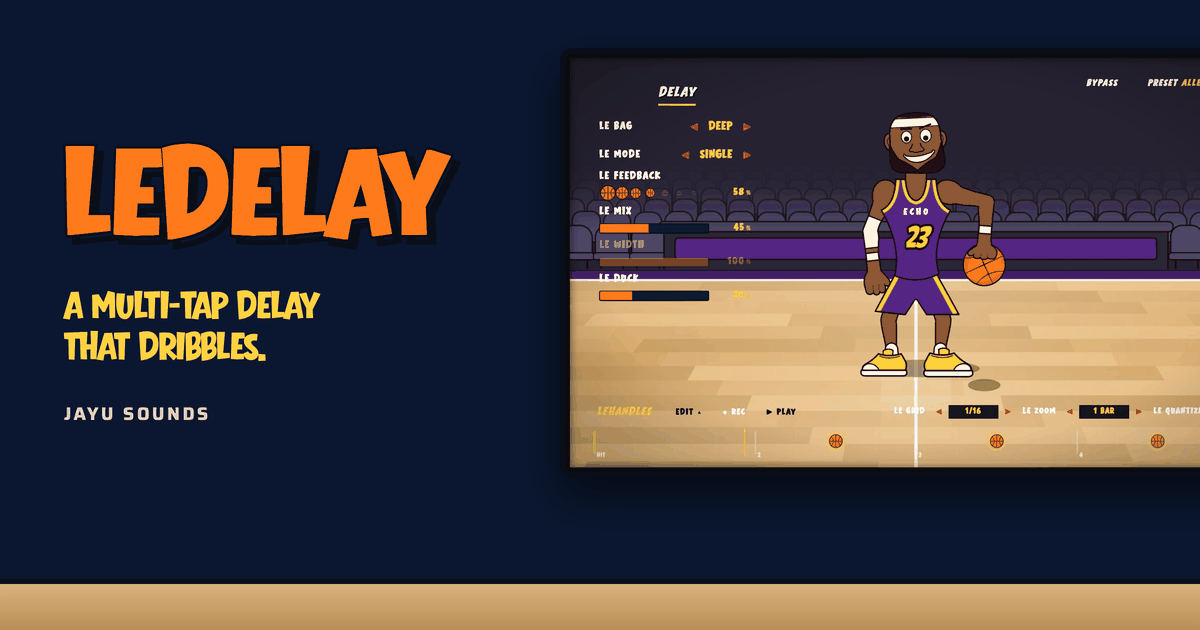
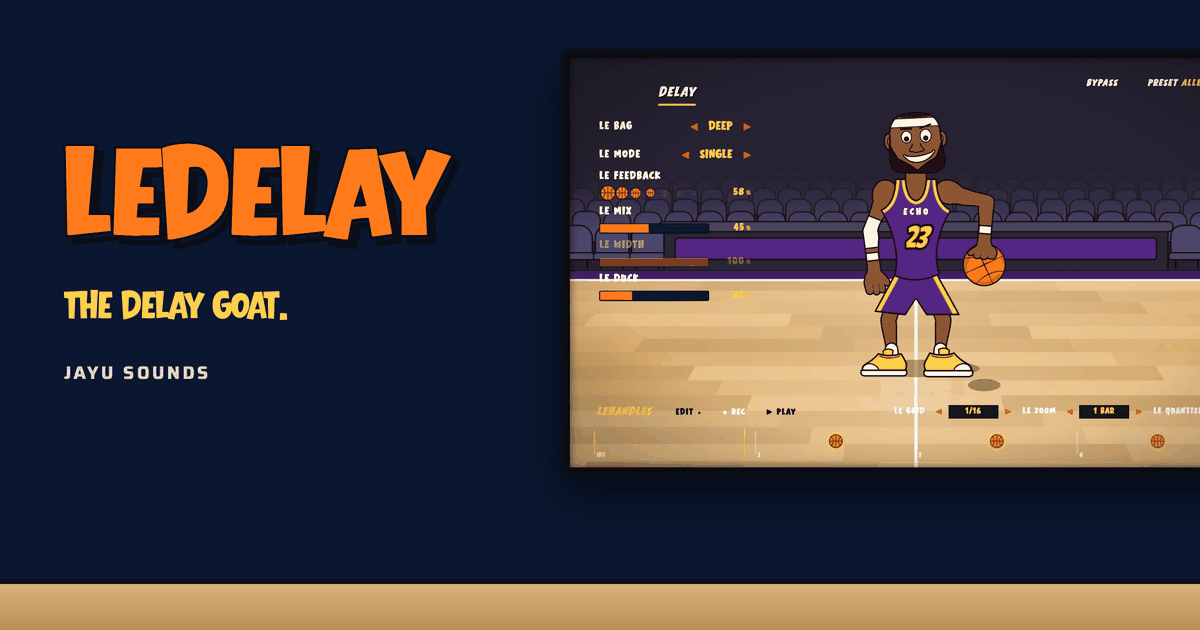
LeDELAY: the tagline is 'the delay GOAT', new one-line pitch

Changed region(s): [[0.0308, 0.4524, 0.2775, 0.6032], [0.0617, 0.6333, 0.185, 0.6635]]

diff --git a/ledelay/index.html b/ledelay/index.html
@@ -3,12 +3,12 @@
 <head>
 <meta charset="utf-8">
 <meta name="viewport" content="width=device-width, initial-scale=1">
-<title>LeDELAY — a multi-tap delay that dribbles</title>
-<meta name="description" content="LeDELAY is a multi-tap delay for macOS and Windows. Build the echo pattern on a basketball court, or dribble it in yourself. Three eras, seven effects on every repeat. VST3, AU, CLAP and standalone.">
+<title>LeDELAY — the delay GOAT</title>
+<meta name="description" content="LeDELAY: a multi-tap delay plugin as intuitive as dribbling a basketball. Turn your echo pattern into a fully customizable dribble pattern. macOS and Windows, VST3, AU, CLAP and standalone.">
 
 <link rel="canonical" href="https://jayusounds.com/ledelay/">
-<meta property="og:title" content="LeDELAY — a multi-tap delay that dribbles">
-<meta property="og:description" content="Build the echo pattern on a basketball court, or dribble it in yourself. Three eras, seven effects on every repeat.">
+<meta property="og:title" content="LeDELAY — the delay GOAT">
+<meta property="og:description" content="A multi-tap delay plugin as intuitive as dribbling a basketball. Turn your echo pattern into a fully customizable dribble pattern.">
 <meta property="og:type" content="product">
 <meta property="og:url" content="https://jayusounds.com/ledelay/">
 <!-- Absolute, because link unfurlers do not resolve a relative one. VERSIONED
@@ -268,11 +268,10 @@ fbq('track', 'PageView');
     <section class="hero" id="buy">
       <div>
         <h1>LeDELAY</h1>
-        <p class="tag">A multi-tap delay that dribbles.</p>
+        <p class="tag">The delay GOAT.</p>
         <p>
-          Your echoes, on a basketball court. Every repeat is a bounce, and the
-          Echo King dribbles them in time. Lay the pattern out on the bar, or
-          grab the ball and dribble it in yourself.
+          A multi-tap delay plugin as intuitive as dribbling a basketball.
+          Turn your echo pattern into a fully customizable dribble pattern.
         </p>
         <div class="cta-row">
           <!-- TODO when LeDELAY goes on sale: swap this for the Lemon Squeezy

diff --git a/index.html b/index.html
@@ -4,7 +4,7 @@
 <meta charset="utf-8">
 <meta name="viewport" content="width=device-width, initial-scale=1">
 <title>Jayu Sounds</title>
-<meta name="description" content="Audio plugins by Jayu Sounds: Shizen, a generative sampler, and LeDELAY, a multi-tap delay that dribbles. Pick a channel.">
+<meta name="description" content="Audio plugins by Jayu Sounds: Shizen, a generative sampler, and LeDELAY, the delay GOAT. Pick a channel.">
 
 <link rel="canonical" href="https://jayusounds.com/">
 <meta property="og:type" content="website">

diff --git a/tools/og-card-ledelay.html b/tools/og-card-ledelay.html
@@ -22,7 +22,7 @@ body { width: 1200px; height: 630px; overflow: hidden; background: #0b1730; posi
 <body>
   <div class="copy">
     <h1 class="name">LeDELAY</h1>
-    <p class="tag">A multi-tap delay<br>that dribbles.</p>
+    <p class="tag">The delay GOAT.</p>
     <p class="by">Jayu Sounds</p>
   </div>
   <div class="art"><img src="../assets/ledelay/hero.jpg" alt=""></div>
